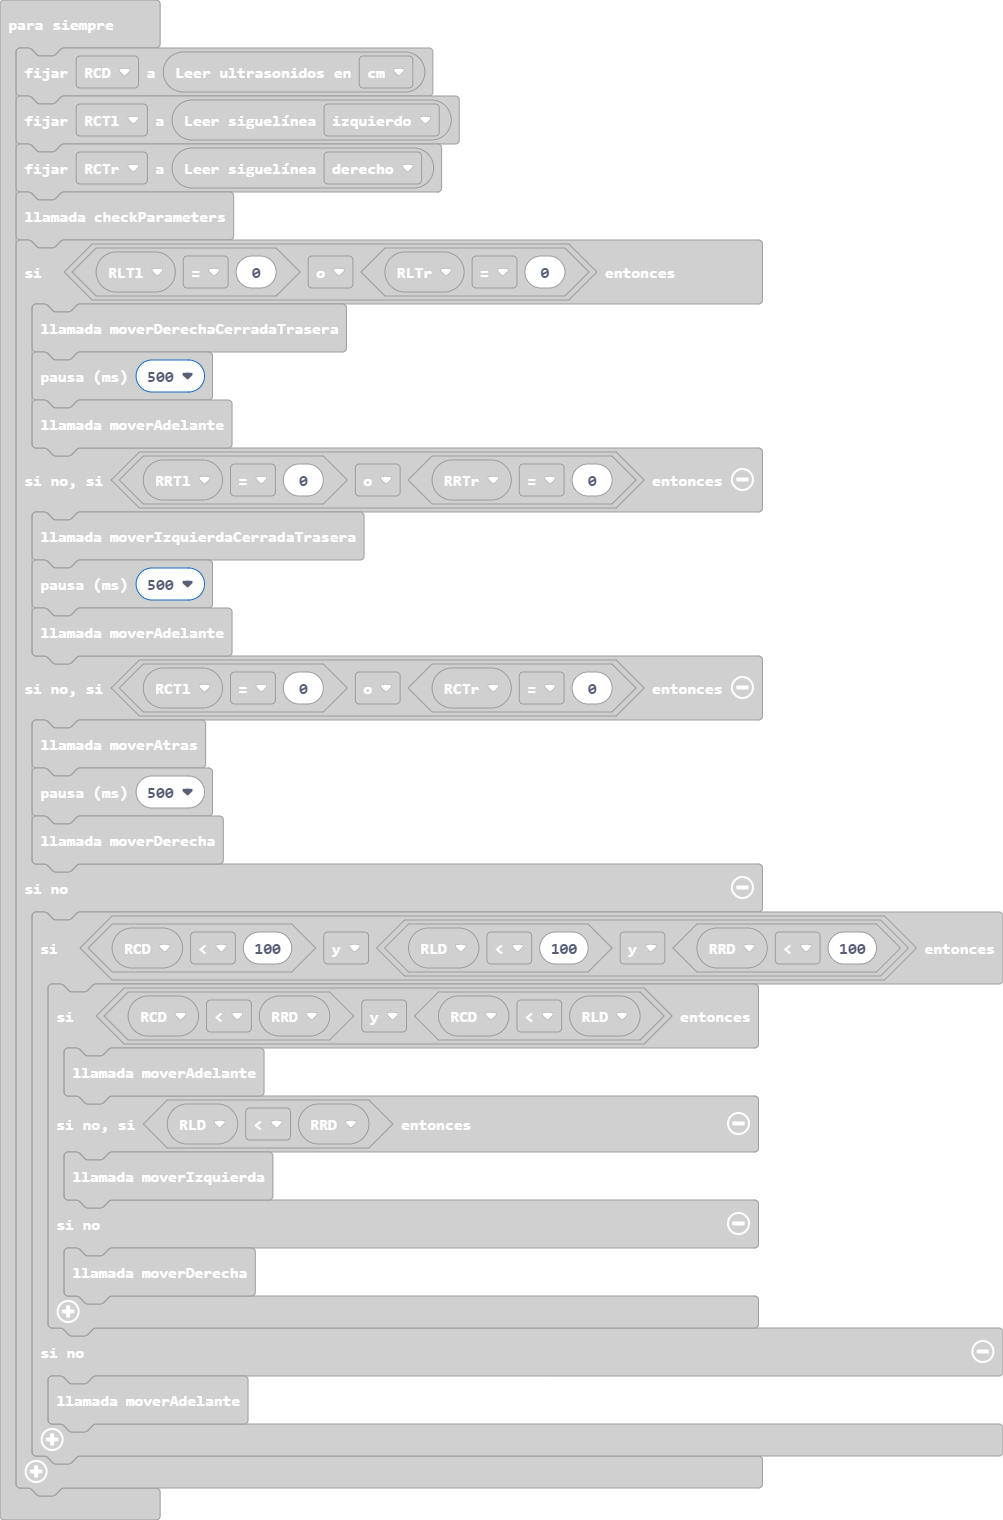
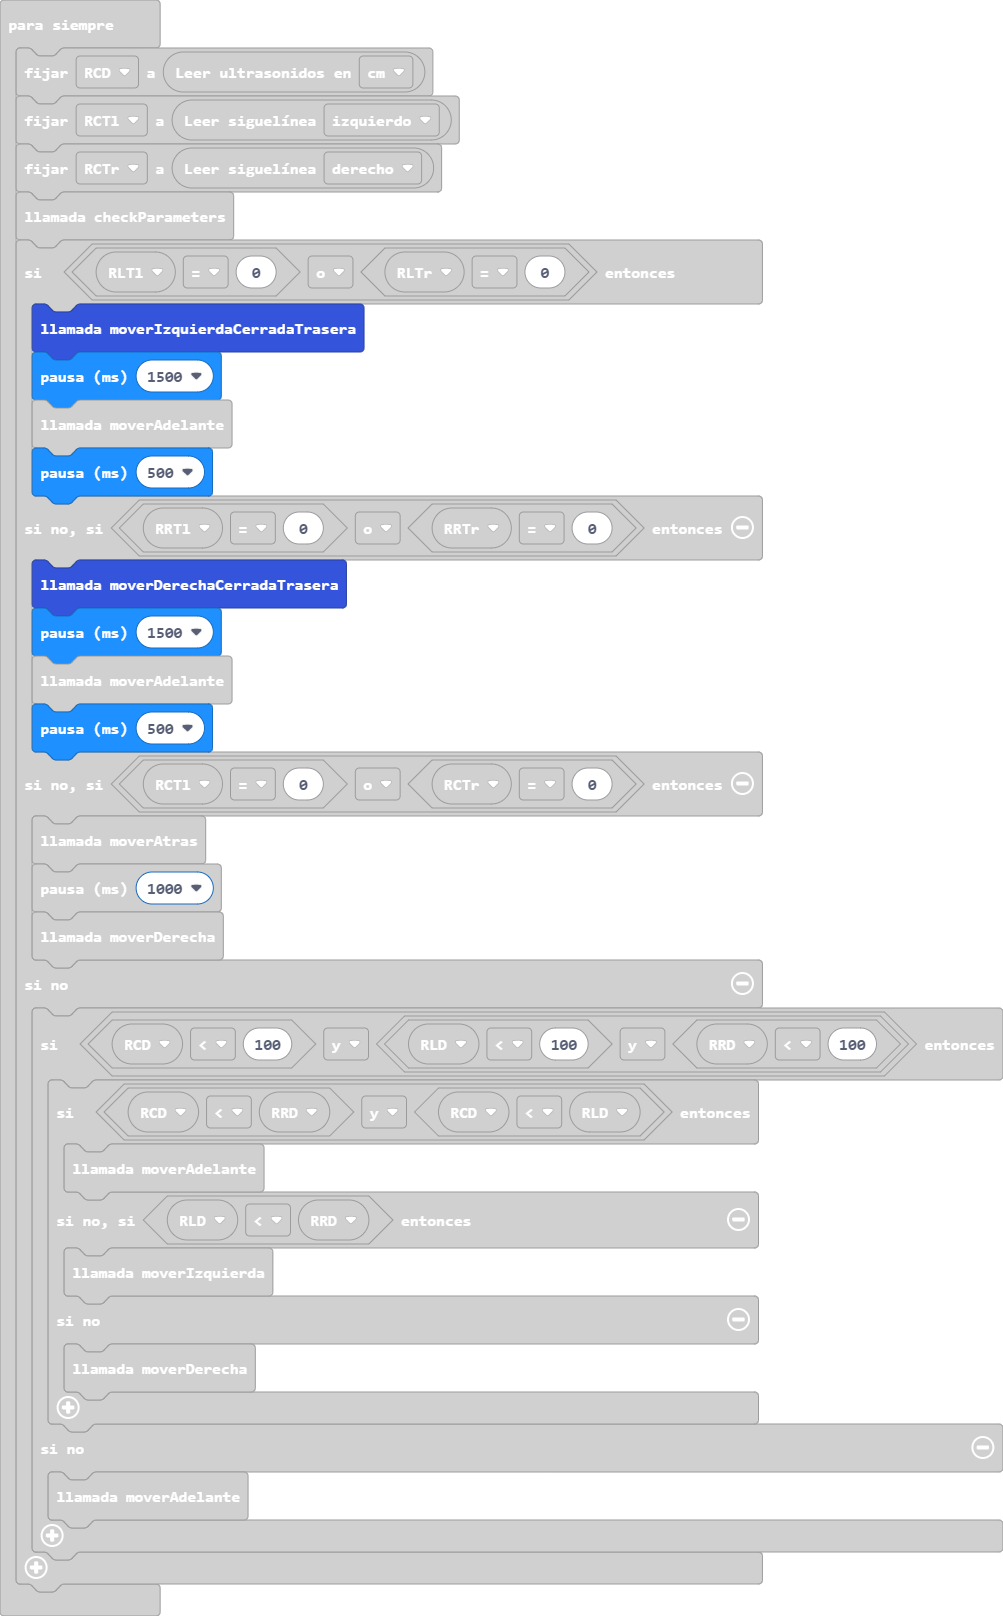
Actualizar main.blocks, main.ts

Changed region(s): [[0.0309, 0.0, 1.0, 0.9895]]

diff --git a/main.ts b/main.ts
@@ -104,16 +104,18 @@ basic.forever(function () {
     RCTr = maqueen.readPatrol(maqueen.Patrol.PatrolRight)
     checkParameters()
     if (RLTl == 0 || RLTr == 0) {
-        moverDerechaCerradaTrasera()
-        basic.pause(500)
-        moverAdelante()
-    } else if (RRTl == 0 || RRTr == 0) {
         moverIzquierdaCerradaTrasera()
-        basic.pause(500)
+        basic.pause(1500)
         moverAdelante()
+        basic.pause(500)
+    } else if (RRTl == 0 || RRTr == 0) {
+        moverDerechaCerradaTrasera()
+        basic.pause(1500)
+        moverAdelante()
+        basic.pause(500)
     } else if (RCTl == 0 || RCTr == 0) {
         moverAtras()
-        basic.pause(500)
+        basic.pause(1000)
         moverDerecha()
     } else {
         if (RCD < 100 && (RLD < 100 && RRD < 100)) {
